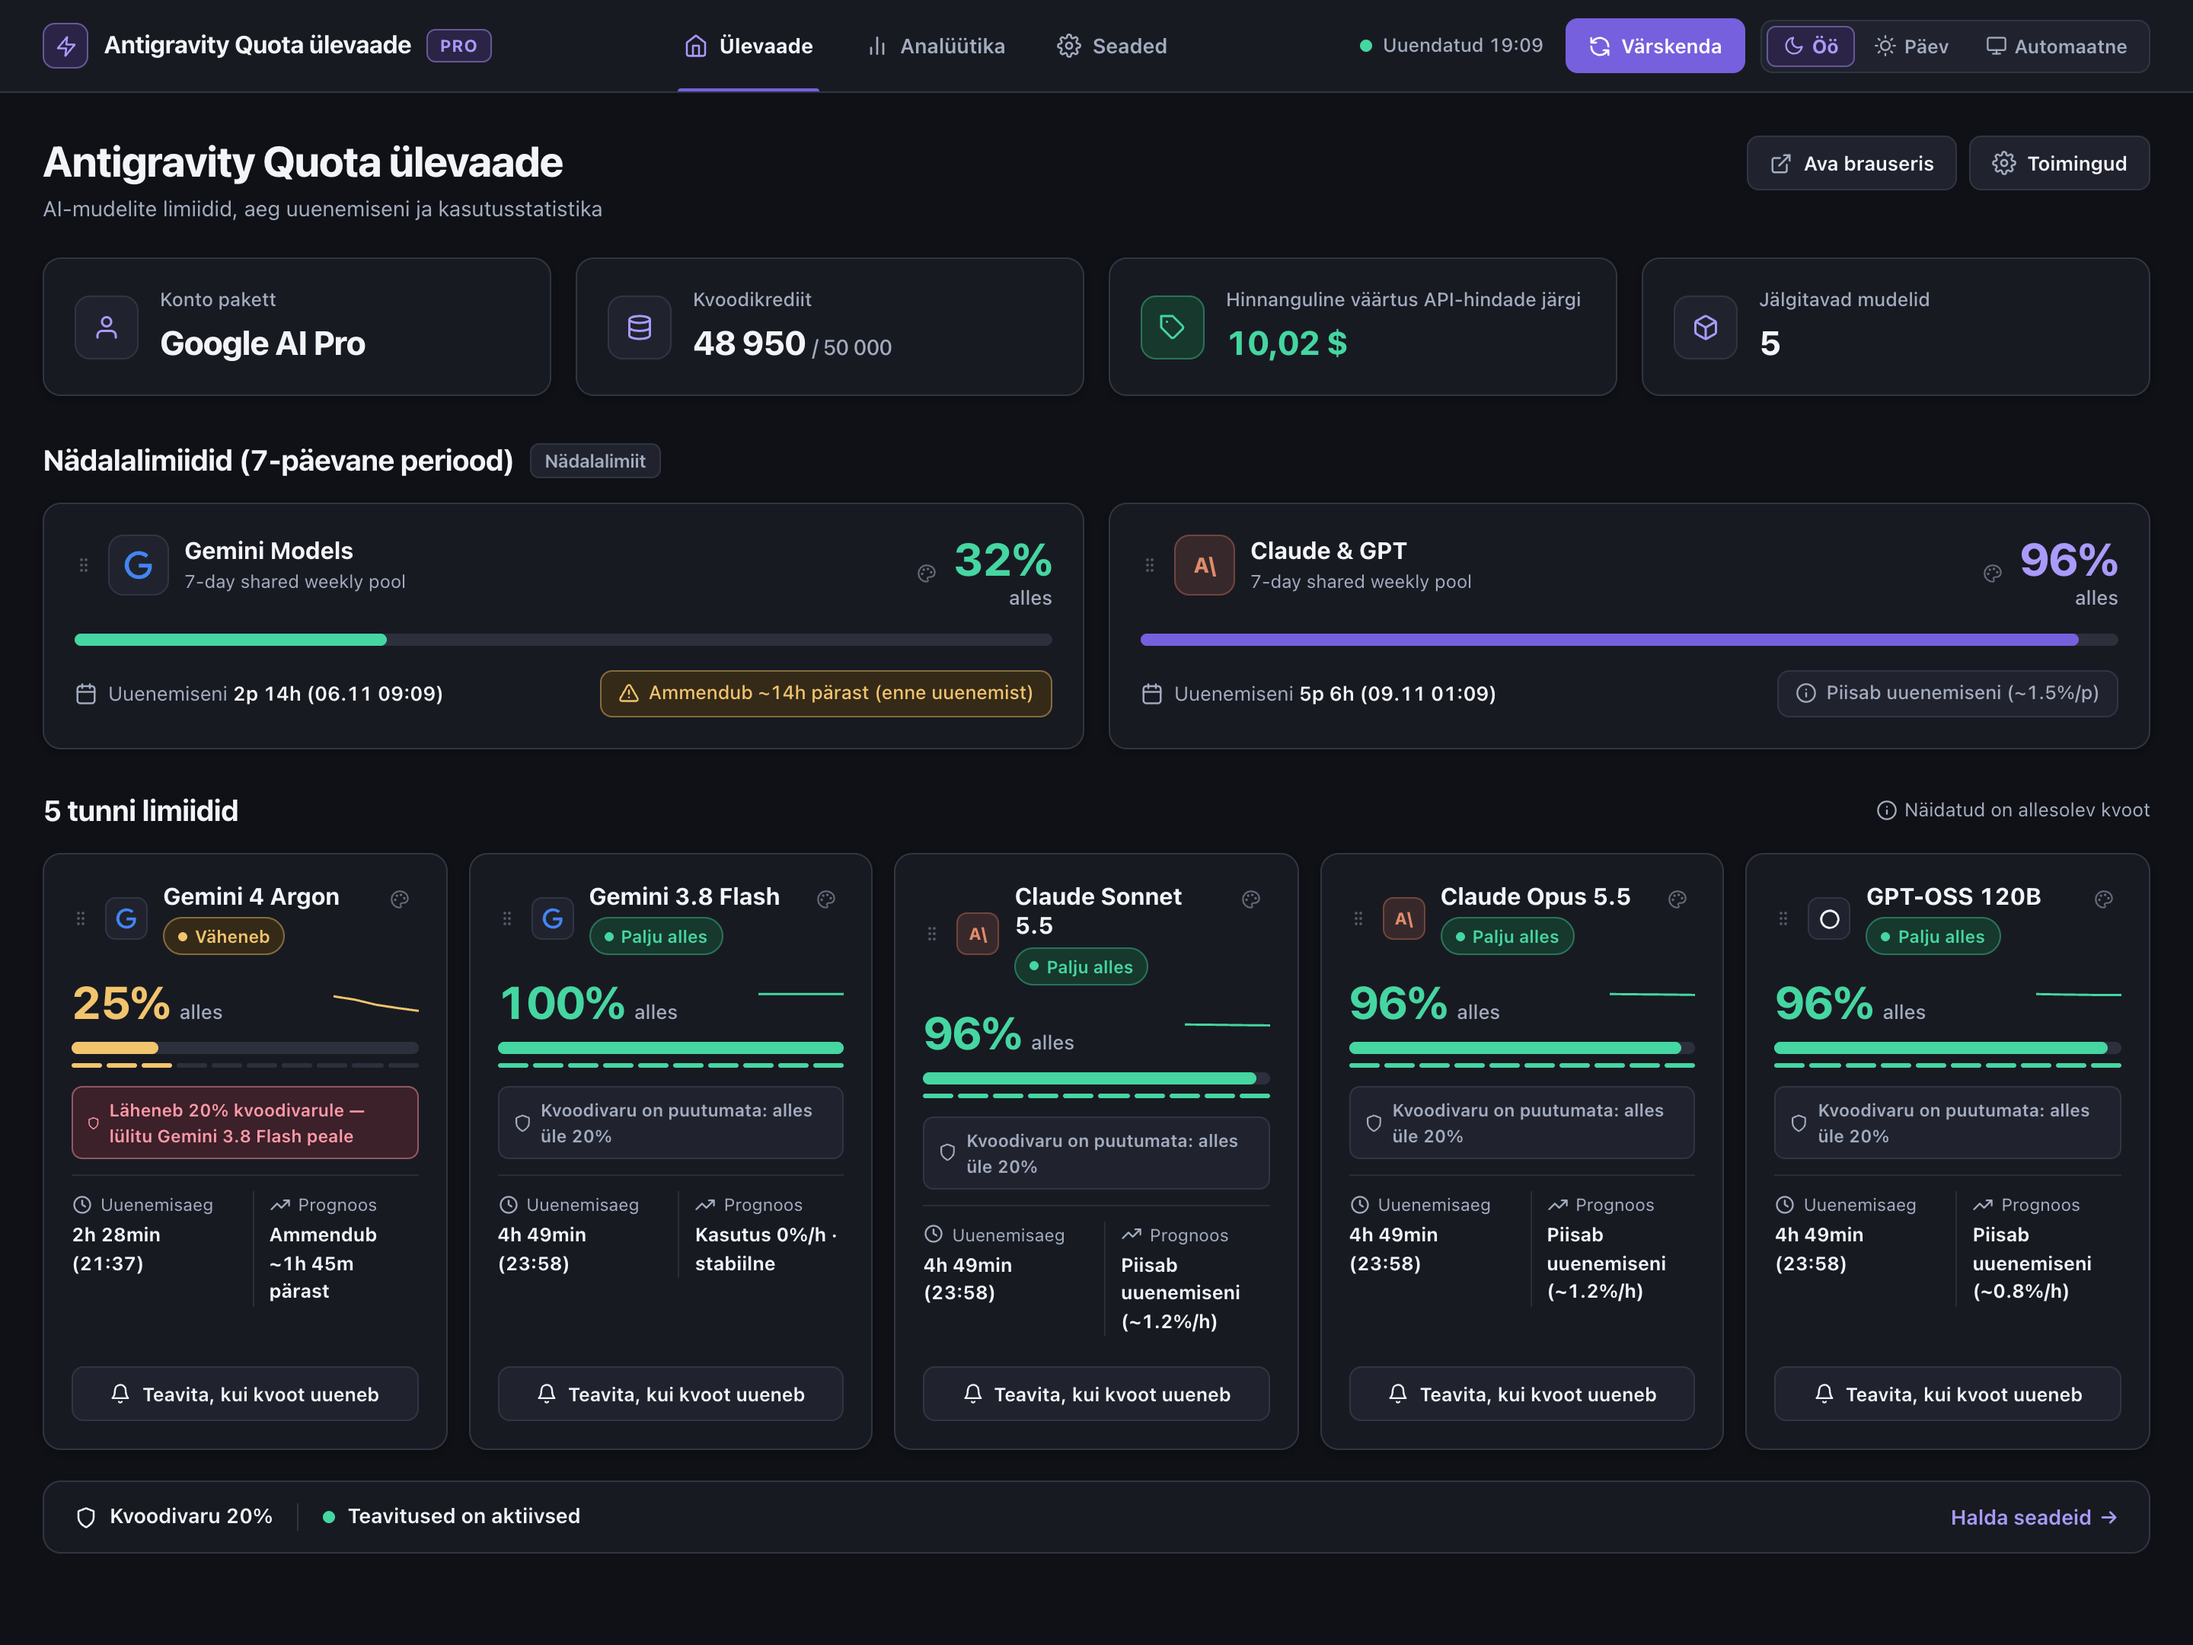
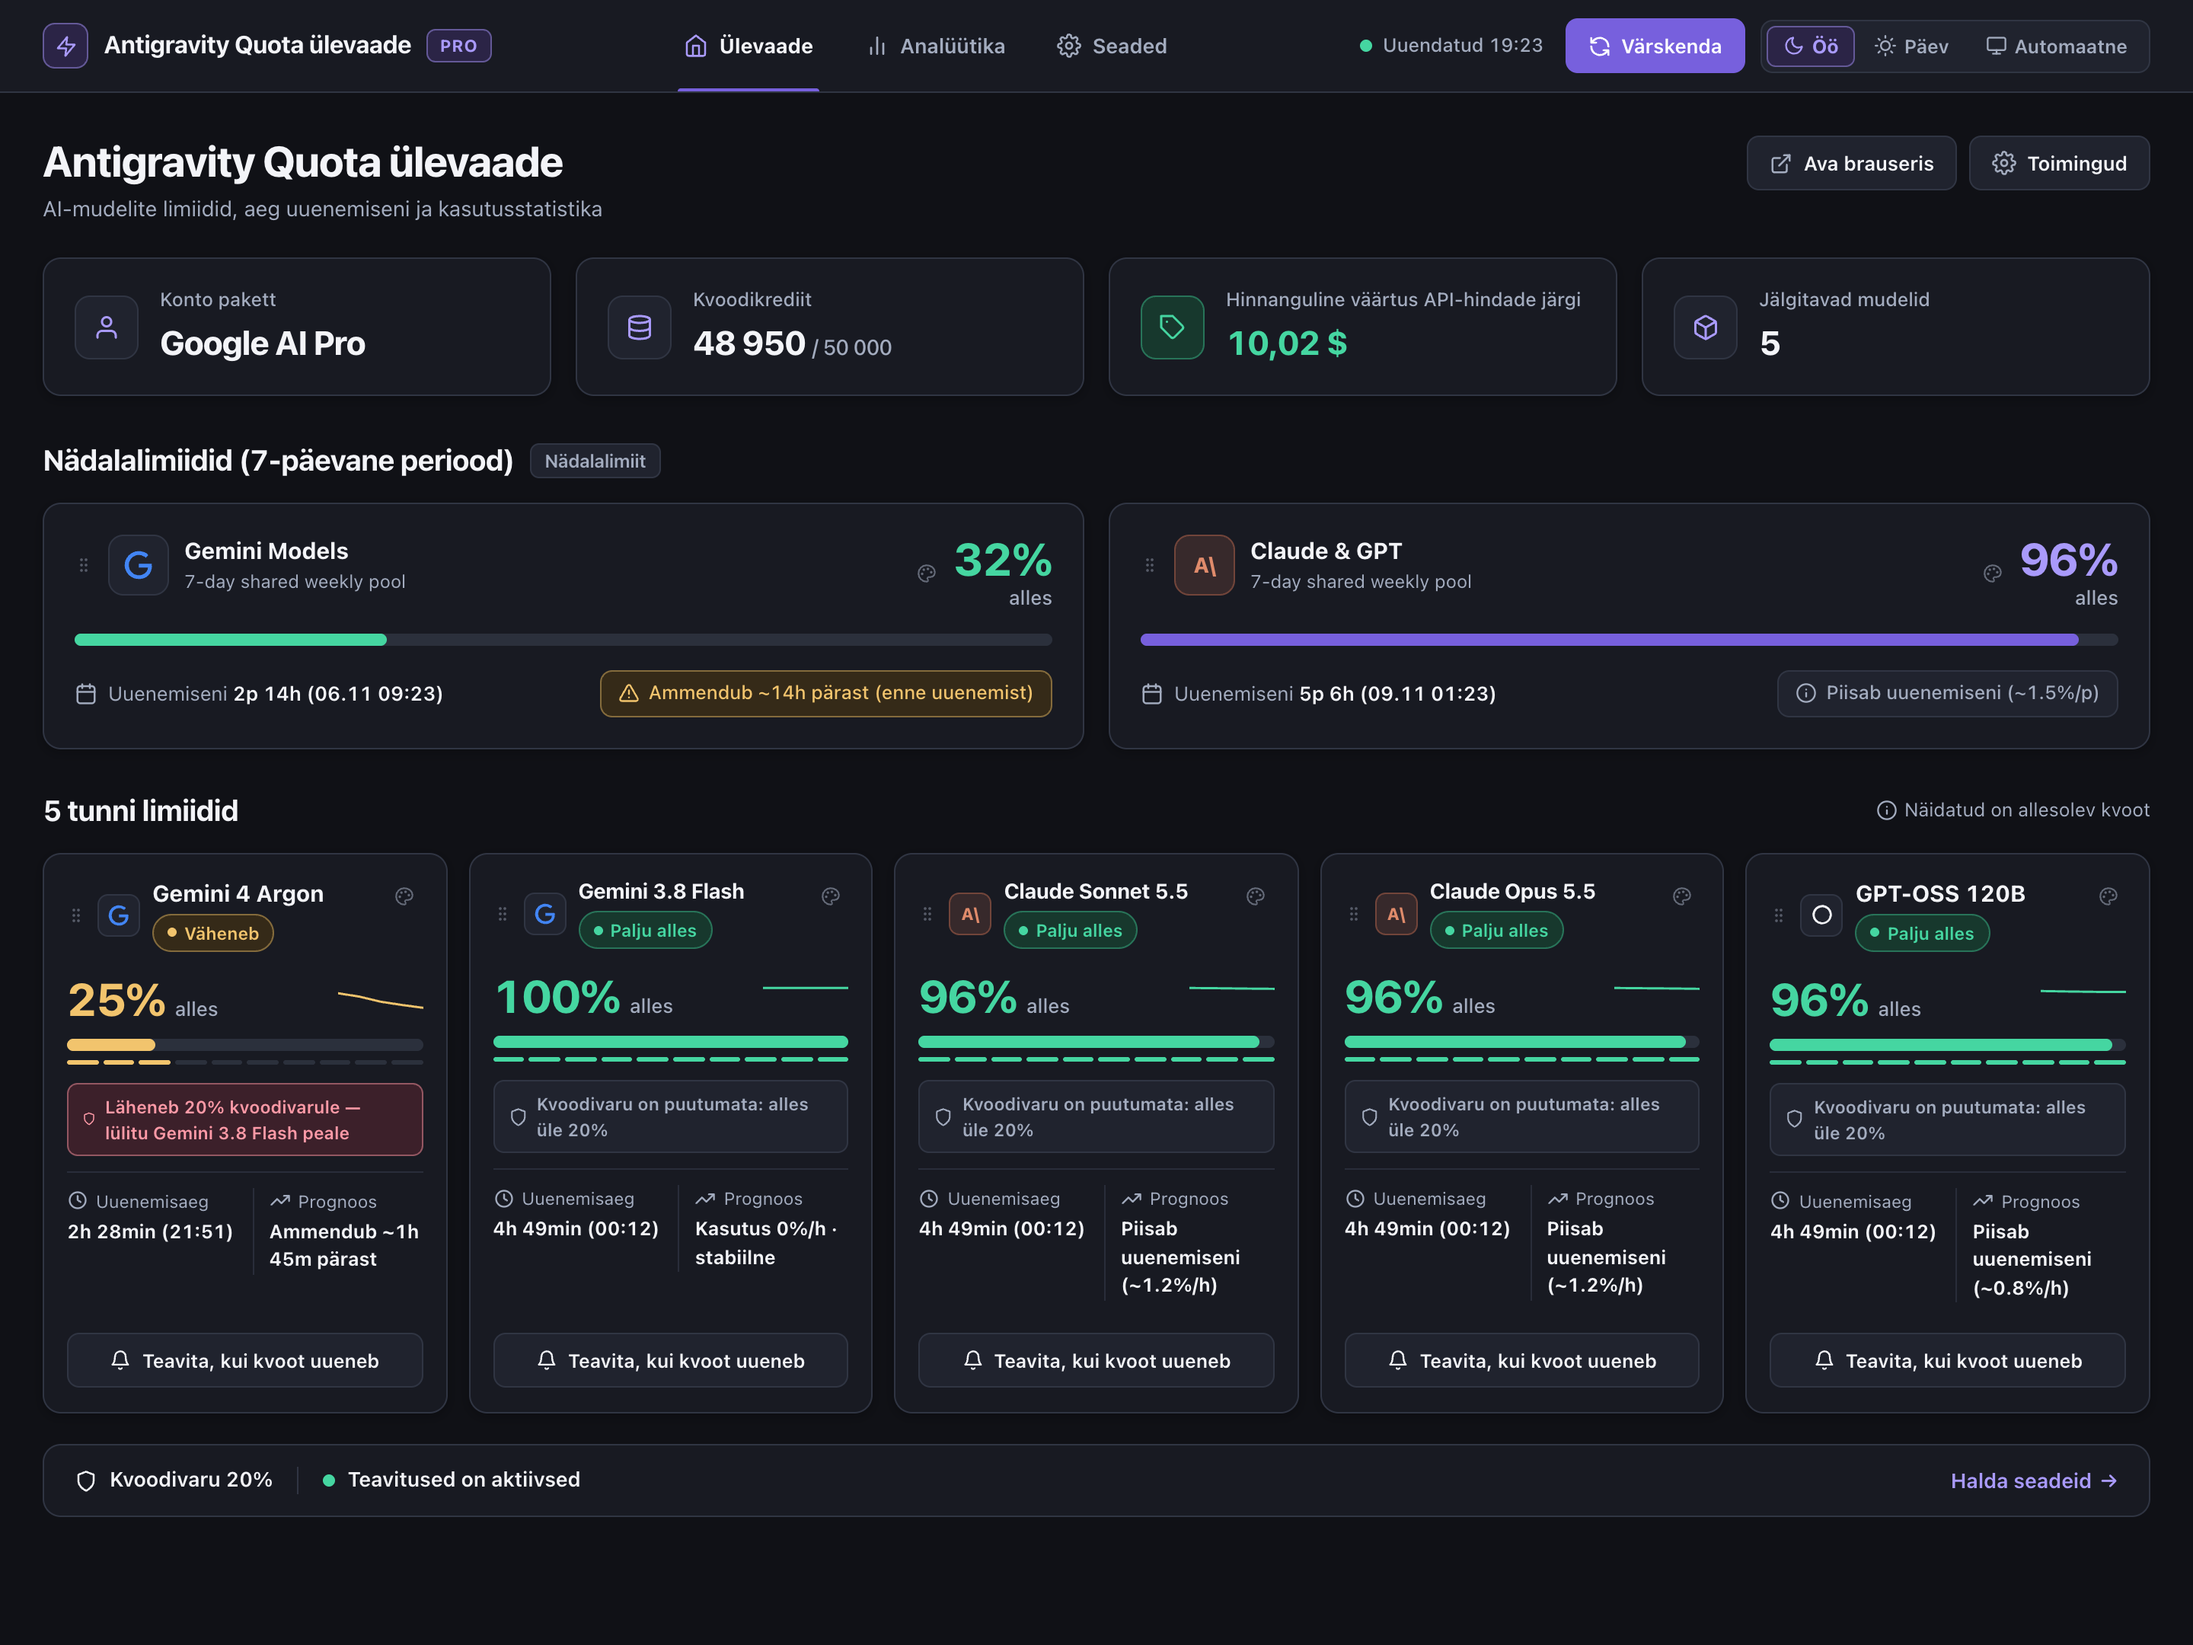
fix(ui): single-line adaptive font scaling & strict 5-card alignment (v2.0.25)

diff --git a/README.md b/README.md
@@ -35,7 +35,7 @@
 </p>
 
 <p align="center">
-  <a href="https://open-vsx.org/extension/Nordicstocks/antigravity-quota-monitor"><img src="https://img.shields.io/badge/Open--VSX-v2.0.24-blue?style=for-the-badge" alt="Open VSX Version"></a>
+  <a href="https://open-vsx.org/extension/Nordicstocks/antigravity-quota-monitor"><img src="https://img.shields.io/badge/Open--VSX-v2.0.25-blue?style=for-the-badge" alt="Open VSX Version"></a>
   <a href="https://open-vsx.org/extension/Nordicstocks/antigravity-quota-monitor"><img src="https://img.shields.io/open-vsx/dt/Nordicstocks/antigravity-quota-monitor?style=for-the-badge&label=Downloads&color=10b981" alt="Live Open VSX Downloads"></a>
   <a href="https://info.flagcounter.com/Eb0D"><img src="https://img.shields.io/badge/🌍_Live_Country_Map-View_Stats-06b6d4?style=for-the-badge" alt="Live Global Country Analytics"></a>
   <a href="https://buy.polar.sh/polar_cl_avl0NAvpPN4jQD0vZRRg11yZ92BQ2OHCKw29f4dxlPW"><img src="https://img.shields.io/badge/🎁_Try_Pro_14_Days_FREE-€0_Today-brightgreen?style=for-the-badge" alt="Try Pro 14 Days Free"></a>
